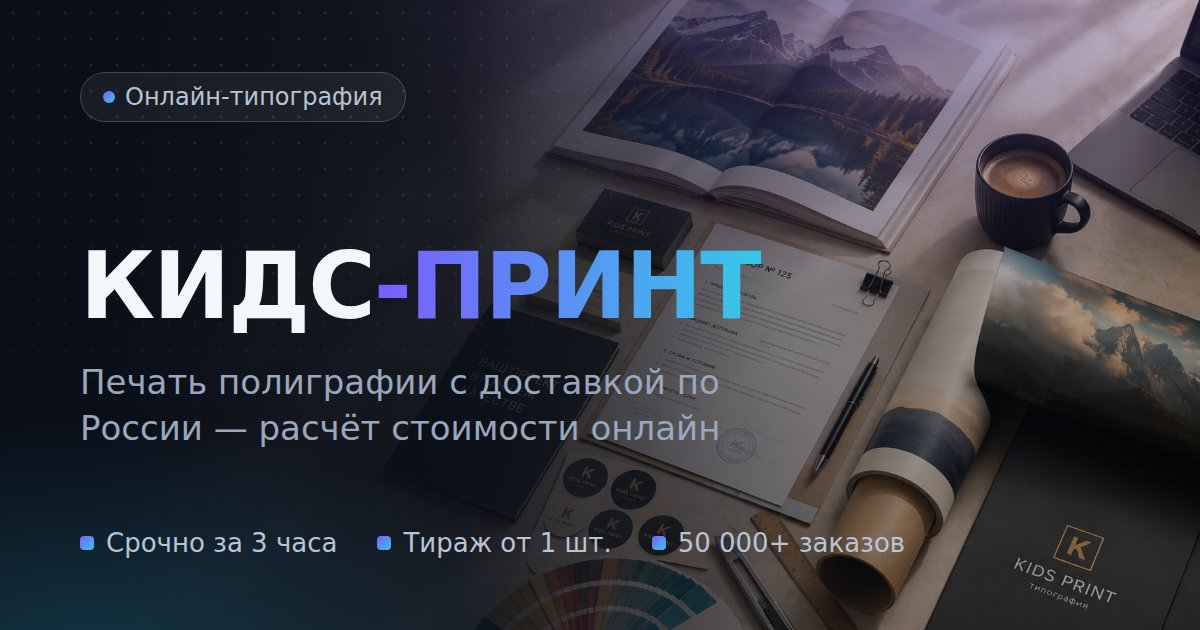
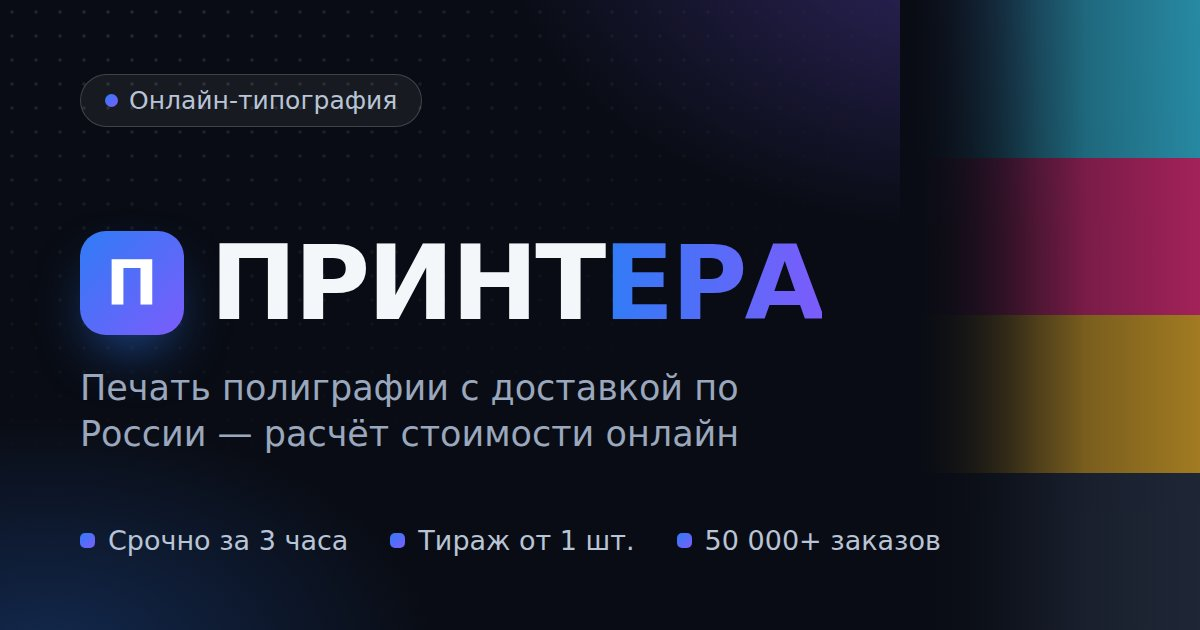
Rebrand: КИДС-ПРИНТ → ПРИНТЕРА
- site.ts: name/legalName, stub contacts moved off the old domain
  (info@printera.ru, vk/t.me/printera, Yandex reviews org)
- Logo: new monogram «П» and wordmark ПРИНТ + accented ЕРА; extracted a
  shared Wordmark so header and mobile menu render the name identically
  (the old code split site.name on a hyphen the new name doesn't have)
- Metadata titles on cart, checkout, search, 404, account, admin,
  constructor, sitemap page; business-card mockup in the calculator
- SEO content: 8 brand mentions across delivery-points and legal pages
- og-default.jpg rebuilt on brand graphics (gradient, print raster, CMYK
  registration bars) — the flat-lay photo carries the previous brand on the
  printed samples, so it can no longer back the share card
- Docs and package.json description

Left untouched on purpose: the client's ТЗ document, and the staging
infrastructure identifiers (S3 bucket, systemd unit) that name real
resources.

Verified: tsc clean, 494/494 vitest, Playwright pass over header, mobile
menu, footer and service pages — no occurrence of the old name remains in
the rendered site.

Claude-Session: https://claude.ai/code/session_01SHsmN3AX1Z1BuxnhCPWrf2

diff --git a/frontend/src/lib/site.ts b/frontend/src/lib/site.ts
@@ -3,8 +3,8 @@
  * Значения-заглушки из ТЗ; на проде управляются из CMS.
  */
 export const site = {
-  name: 'КИДС-ПРИНТ',
-  legalName: 'КИДС-ПРИНТ',
+  name: 'ПРИНТЕРА',
+  legalName: 'ПРИНТЕРА',
   tagline: 'Онлайн-типография',
   description:
     'Онлайн-типография в Санкт-Петербурге: печать визиток, листовок, фотокниг, баннеров. Онлайн-расчёт стоимости, срочное изготовление, доставка по России.',
@@ -17,17 +17,17 @@ export const site = {
     display: '+7 (495) 000-00-00',
     href: 'tel:+74950000000',
   },
-  email: 'info@kidsprint.ru',
+  email: 'info@printera.ru',
   workHours: 'Ежедневно 9:00–21:00',
   freeDeliveryFrom: 3000,
   socials: {
-    vk: 'https://vk.com/kidsprint',
-    telegram: 'https://t.me/kidsprint',
+    vk: 'https://vk.com/printera',
+    telegram: 'https://t.me/printera',
     whatsapp: 'https://wa.me/74950000000',
   },
   rating: { value: 4.9, count: 1241, source: 'Яндекс.Карты' },
   /** Внешняя страница отзывов на Яндекс.Картах (ТЗ: кнопка «Читать все отзывы»). */
-  reviewsUrl: 'https://yandex.ru/maps/org/kidsprint/reviews/',
+  reviewsUrl: 'https://yandex.ru/maps/org/printera/reviews/',
   legal: { inn: '0000000000', ogrn: '0000000000000' },
   yandexMetrikaId: 0, // подставляется из env на проде
 } as const;

diff --git a/frontend/src/components/navigation/logo.tsx b/frontend/src/components/navigation/logo.tsx
@@ -2,7 +2,19 @@ import Link from 'next/link';
 import { cn } from '@/lib/utils';
 import { site } from '@/lib/site';
 
-/** Текстовый логотип КИДС-ПРИНТ (SVG-лого подставится позже). */
+/**
+ * Текстовый вордмарк: «ПРИНТ» + акцентное «ЕРА» (SVG-лого подставится позже).
+ * Вынесен отдельно, чтобы шапка и мобильное меню писали название одинаково.
+ */
+export function Wordmark({ className, white }: { className?: string; white?: boolean }) {
+  return (
+    <span className={cn(className, white && 'text-white')}>
+      ПРИНТ<span className="text-primary">ЕРА</span>
+    </span>
+  );
+}
+
+/** Текстовый логотип ПРИНТЕРА (SVG-лого подставится позже). */
 export function Logo({ className, white }: { className?: string; white?: boolean }) {
   return (
     <Link
@@ -14,11 +26,9 @@ export function Logo({ className, white }: { className?: string; white?: boolean
         aria-hidden
         className="grid h-8 w-8 place-items-center rounded-lg bg-primary text-primary-fg text-sm font-black"
       >
-        К
+        П
       </span>
-      <span className={cn('text-lg', white && 'text-white')}>
-        КИДС<span className="text-primary">-ПРИНТ</span>
-      </span>
+      <Wordmark className="text-lg" white={white} />
     </Link>
   );
 }

diff --git a/frontend/src/components/navigation/mobile-menu.tsx b/frontend/src/components/navigation/mobile-menu.tsx
@@ -6,7 +6,7 @@ import Link from 'next/link';
 import { useState } from 'react';
 import { ChevronDown, Menu, X } from 'lucide-react';
 import { mainNav, type NavItem } from '@/data/navigation';
-import { site } from '@/lib/site';
+import { Wordmark } from './logo';
 import { cn } from '@/lib/utils';
 
 /**
@@ -37,10 +37,7 @@ export function MobileMenu({ nav = mainNav }: { nav?: NavItem[] }) {
           aria-label="Мобильное меню"
         >
           <div className="flex items-center justify-between border-b border-border px-4 py-3">
-            <span className="font-bold">
-              {site.name.split('-')[0]}
-              <span className="text-primary">-ПРИНТ</span>
-            </span>
+            <Wordmark className="font-bold" />
             <Dialog.Close asChild>
               <button
                 type="button"

diff --git a/frontend/src/components/calculator/product-preview.tsx b/frontend/src/components/calculator/product-preview.tsx
@@ -150,9 +150,9 @@ function CardPreview({ config, state }: { config: CalcConfig; state: CalcState }
                 >
                   Иван Петров
                 </div>
-                <div className="text-[8px] text-gray-500">Директор · КИДС-ПРИНТ</div>
+                <div className="text-[8px] text-gray-500">Директор · ПРИНТЕРА</div>
                 <div className="mt-1.5 h-px w-2/3" style={{ background: foil ? foilBg : '#cbd5e1' }} />
-                <div className="mt-1 text-[7px] text-gray-400">+7 495 000-00-00 · kidsprint.ru</div>
+                <div className="mt-1 text-[7px] text-gray-400">+7 495 000-00-00 · printera.ru</div>
               </div>
             </div>
             <div className="pointer-events-none absolute inset-0" style={sheenOverlay(coating?.swatch)} />

diff --git a/frontend/src/app/fotoknigi/konstruktor/page.tsx b/frontend/src/app/fotoknigi/konstruktor/page.tsx
@@ -3,7 +3,7 @@ import { ConstructorApp } from '@/components/constructor/constructor-app';
 
 // Инструмент-редактор не индексируется (canonical — на страницу фотокниг).
 export const metadata: Metadata = {
-  title: 'Онлайн-конструктор фотокниг — КИДС-ПРИНТ',
+  title: 'Онлайн-конструктор фотокниг — ПРИНТЕРА',
   description: 'Соберите фотокнигу в браузере: загрузите фото, выберите макеты разворотов и оформите заказ.',
   robots: { index: false, follow: true },
   alternates: { canonical: '/fotoknigi/' },

diff --git a/frontend/src/app/karta-sayta-html/page.tsx b/frontend/src/app/karta-sayta-html/page.tsx
@@ -12,7 +12,7 @@ import { OrganizationJsonLd } from '@/components/seo/json-ld';
 // HTML-карта сайта (ТЗ «Общие технические требования», п.10). Индексируется.
 export const metadata: Metadata = buildMetadata({
   title: 'Карта сайта',
-  description: 'Полный каталог ссылок на все разделы, категории и услуги КИДС-ПРИНТ.',
+  description: 'Полный каталог ссылок на все разделы, категории и услуги ПРИНТЕРА.',
   path: '/karta-sayta-html/',
 });
 

diff --git a/frontend/src/components/admin/admin-shell.tsx b/frontend/src/components/admin/admin-shell.tsx
@@ -93,7 +93,7 @@ export function AdminShell({ children }: { children: React.ReactNode }) {
     <Container className="py-6">
       <div className="mb-5 flex items-center justify-between gap-3">
         <div>
-          <p className="text-xs font-semibold uppercase tracking-wide text-subtle">KidsPrint</p>
+          <p className="text-xs font-semibold uppercase tracking-wide text-subtle">PRINTERA</p>
           <h1 className="text-xl font-bold sm:text-2xl">Панель управления</h1>
         </div>
         <button

diff --git a/frontend/src/app/not-found.tsx b/frontend/src/app/not-found.tsx
@@ -4,7 +4,7 @@ import { Button } from '@/components/ui/button';
 import { SearchForm } from '@/components/navigation/search-form';
 
 // Кастомная 404 с навигацией и поиском, БЕЗ noindex (ТЗ требований, п.4).
-export const metadata: Metadata = { title: 'Страница не найдена — КИДС-ПРИНТ' };
+export const metadata: Metadata = { title: 'Страница не найдена — ПРИНТЕРА' };
 
 export default function NotFound() {
   return (

diff --git a/frontend/src/app/globals.css b/frontend/src/app/globals.css
@@ -3,7 +3,7 @@
 @tailwind utilities;
 
 /*
- * Дизайн-система КИДС-ПРИНТ — две темы на токенах.
+ * Дизайн-система ПРИНТЕРА — две темы на токенах.
  * Тёмная (PrintOS) — основная; светлая — равноправный вариант.
  * Значения цветов — RGB-каналы для поддержки <alpha-value> в Tailwind.
  */

diff --git a/frontend/src/app/admin/layout.tsx b/frontend/src/app/admin/layout.tsx
@@ -3,7 +3,7 @@ import { AdminShell } from '@/components/admin/admin-shell';
 
 /** Панель управления не индексируется. */
 export const metadata: Metadata = {
-  title: 'Панель управления — КИДС-ПРИНТ',
+  title: 'Панель управления — ПРИНТЕРА',
   robots: { index: false, follow: false },
 };
 

diff --git a/frontend/src/app/search/page.tsx b/frontend/src/app/search/page.tsx
@@ -4,7 +4,7 @@ import { SearchResults } from '@/components/search/search-results';
 
 // Результаты поиска не индексируются.
 export const metadata: Metadata = {
-  title: 'Поиск по сайту — КИДС-ПРИНТ',
+  title: 'Поиск по сайту — ПРИНТЕРА',
   robots: { index: false, follow: true },
 };
 

diff --git a/frontend/src/components/templates/b2b-page.tsx b/frontend/src/components/templates/b2b-page.tsx
@@ -167,7 +167,7 @@ const manager = {
   role: 'Менеджер по работе с юрлицами',
   initials: 'АС',
   phone: site.phone,
-  email: 'b2b@kidsprint.ru',
+  email: 'b2b@printera.ru',
 };
 
 /** Логотипы компаний-клиентов (ТЗ B2B, блок 6) — текстовые заглушки до реальных. */
